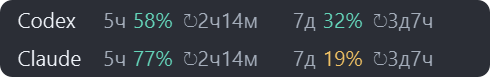
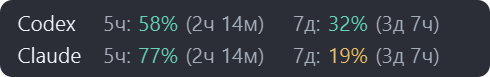
Refine taskbar quota labels, countdowns and row spacing

diff --git a/src/quotabubble/ui/taskbar_panel.py b/src/quotabubble/ui/taskbar_panel.py
@@ -271,11 +271,12 @@ class TaskbarPanel(QWidget):
         name_width = 49
         column_gap = 8
         column_width = (self.width() - name_width - 22 - column_gap) / 2
-        height = self.height() / 2
+        padding = 4
+        height = (self.height() - padding * 2) / 2
         foreground = QColor("#252b35" if self._light else "#edf1f7")
         muted = QColor("#667181" if self._light else "#a4adba")
         for index, snapshot in enumerate(self._state.ordered()[:2]):
-            top = index * height
+            top = padding + index * height
             painter.setPen(foreground)
             painter.drawText(
                 QRectF(10, top, name_width, height),
@@ -294,7 +295,7 @@ class TaskbarPanel(QWidget):
             for column, (value, tone) in enumerate(values):
                 left = 10 + name_width + column * (column_width + column_gap)
                 metrics = QFontMetrics(font)
-                label = "5ч" if column == 0 else "7д"
+                label = "5ч:" if column == 0 else "7д:"
                 label_width = metrics.horizontalAdvance(label)
                 painter.setPen(muted)
                 painter.drawText(
@@ -321,11 +322,11 @@ class TaskbarPanel(QWidget):
                 )
                 window = primary_windows(snapshot)[column]
                 countdown = reset_countdown(window.resets_at if window else None)
-                reset_left = value_left + value_width + 6
+                reset_left = value_left + value_width + 4
                 reset_width = max(0, left + column_width - reset_left)
                 painter.setPen(muted)
                 reset_text = metrics.elidedText(
-                    "↻" + countdown, Qt.TextElideMode.ElideRight, round(reset_width)
+                    f"({countdown})", Qt.TextElideMode.ElideRight, round(reset_width)
                 )
                 painter.drawText(
                     QRectF(reset_left, top, reset_width, height),

diff --git a/tests/test_taskbar_panel.py b/tests/test_taskbar_panel.py
@@ -62,8 +62,8 @@ def test_expired_credentials_cannot_look_like_zero_usage() -> None:
 def test_countdown_does_not_show_zero_before_reset() -> None:
     now = datetime(2026, 10, 1, tzinfo=UTC)
     assert reset_countdown(now + timedelta(seconds=30), now) == "1м"
-    assert reset_countdown(now + timedelta(hours=2, minutes=14), now) == "2ч14м"
-    assert reset_countdown(now + timedelta(days=3, hours=7), now) == "3д7ч"
+    assert reset_countdown(now + timedelta(hours=2, minutes=14), now) == "2ч 14м"
+    assert reset_countdown(now + timedelta(days=3, hours=7), now) == "3д 7ч"
     assert reset_countdown(now - timedelta(seconds=1), now) == "сейчас"
     assert reset_countdown(None, now) == "—"
 

diff --git a/src/quotabubble/app/taskbar_model.py b/src/quotabubble/app/taskbar_model.py
@@ -33,9 +33,9 @@ def reset_countdown(resets_at: datetime | None, now: datetime | None = None) -> 
     days, remainder = divmod(minutes, 1440)
     hours, mins = divmod(remainder, 60)
     if days:
-        return f"{days}д{hours}ч" if hours else f"{days}д"
+        return f"{days}д {hours}ч" if hours else f"{days}д"
     if hours:
-        return f"{hours}ч{mins:02d}м"
+        return f"{hours}ч {mins:02d}м"
     return f"{mins}м"
 
 

diff --git a/QUOTAPANEL.md b/QUOTAPANEL.md
@@ -10,7 +10,7 @@
 не нужно. Для просмотра примера без чтения токенов запустите `Пример.cmd`.
 
 Панель показывает Codex и Claude, по две квоты: 5 часов и 7 дней.
-Проценты означают **оставшийся** лимит, рядом — отсчёт до сброса (`↻2ч14м`).
+Проценты означают **оставшийся** лимит, рядом — отсчёт до сброса (`(2ч 14м)`).
 Зелёный цвет — осталось больше 25%, жёлтый — 11–25%, красный — 10% и меньше.
 Точка рядом с процентом означает
 сохранённые данные: последняя попытка обновления не удалась или приложение
@@ -67,7 +67,7 @@ uv run pyinstaller --noconfirm packaging/quotapanel.windows.spec
 ## Проверка этой сборки
 
 444 теста прошли, 19 пропущены (платформенные и условные проверки).
-Покрытие — 81,14% при требуемом минимуме 80%.
+Покрытие — 81,19% при требуемом минимуме 80%.
 Проверены отрисовка примера, обе темы, чтение геометрии Windows 11 и запуск
 собранного приложения. Работа с реальными аккаунтами и все сценарии
 автоскрытия не проверялись. Готовый ZIP включает исходную MIT-лицензию.

diff --git a/README.md b/README.md
@@ -23,8 +23,8 @@ QuotaPanel занимает свободное место слева от кно
 
 </details>
 
-На скриншотах — демонстрационные данные. `5ч` и `7д` обозначают окна лимитов,
-процент — **сколько осталось**, а `↻2ч14м` — время до следующего сброса.
+На скриншотах — демонстрационные данные. `5ч:` и `7д:` обозначают окна лимитов,
+процент — **сколько осталось**, а `(2ч 14м)` — время до следующего сброса.
 Сброс одного окна не означает сброс другого.
 
 ## Что умеет
